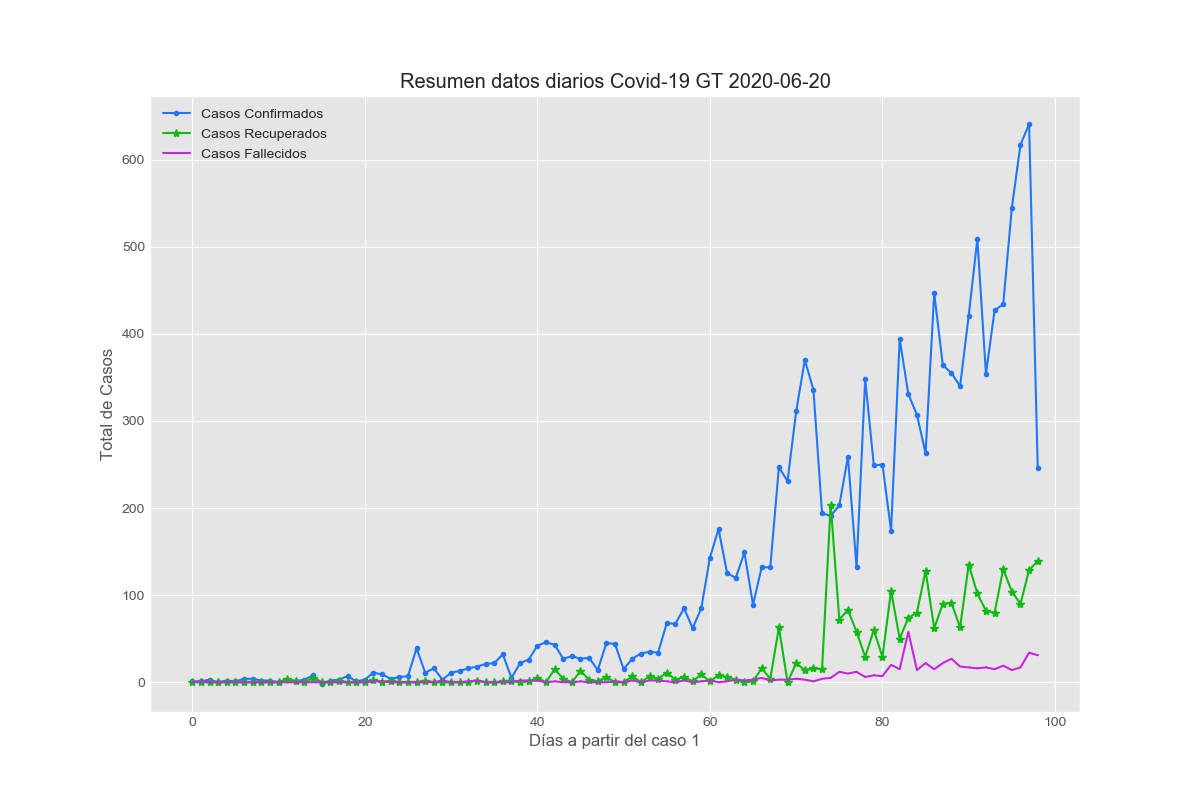
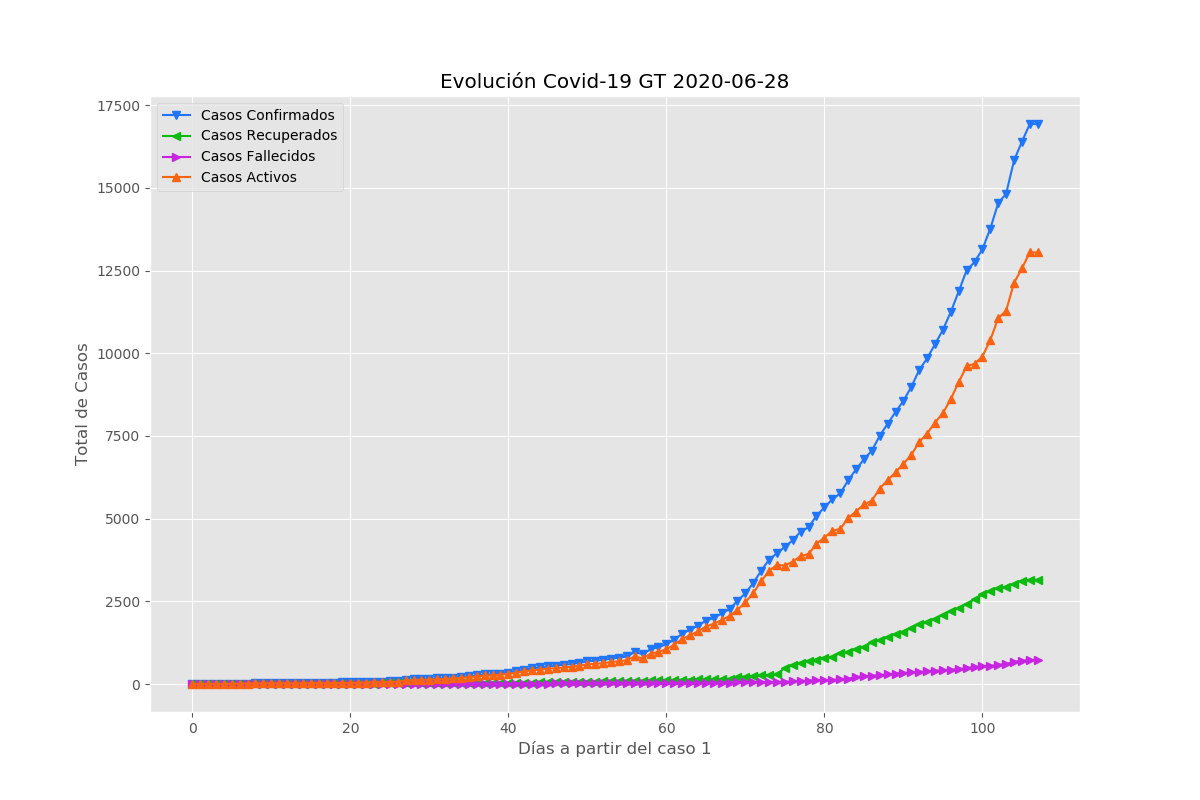
Actualizacion graficas

diff --git a/_posts/2020-06-26-Estadisticos_Graficos.md b/_posts/2020-06-26-Estadisticos_Graficos.md
@@ -12,18 +12,20 @@ Estas gráficas son generadas a partir de los datos en [nuestro repositorio](htt
 
 # Estadísticos Relevantes:
 
-confirmados:  12509
+confirmados:  17409
 
-recuperados:  2419
+recuperados:  3170
 
-fallecidos:  483
+fallecidos:  746
 
-activos:  9605	
+activos:  13491
 
-pruebas realizadas:  66843
+pruebas realizadas:  83017
 
 # Gráficas
+
 ![Screenshot]({{site.url}}/resources/Casos_Acumulados.png)
-![Screenshot]({{site.url}}/resources/Casos_Acumulados_v2.png)
-![Screenshot]({{site.url}}/resources/Casos_Diarios_V0.png)
+![Screenshot]({{site.url}}/resources/Casos_Diarios.png)
+![Screenshot]({{site.url}}/resources/Razon_confirmados_pruebas_diario.png)
+![Screenshot]({{site.url}}/resources/Razon_negativos_pruebas_diario.png)
 ![Screenshot]({{site.url}}/resources/Resumen_Pruebas_semilogy.png)
